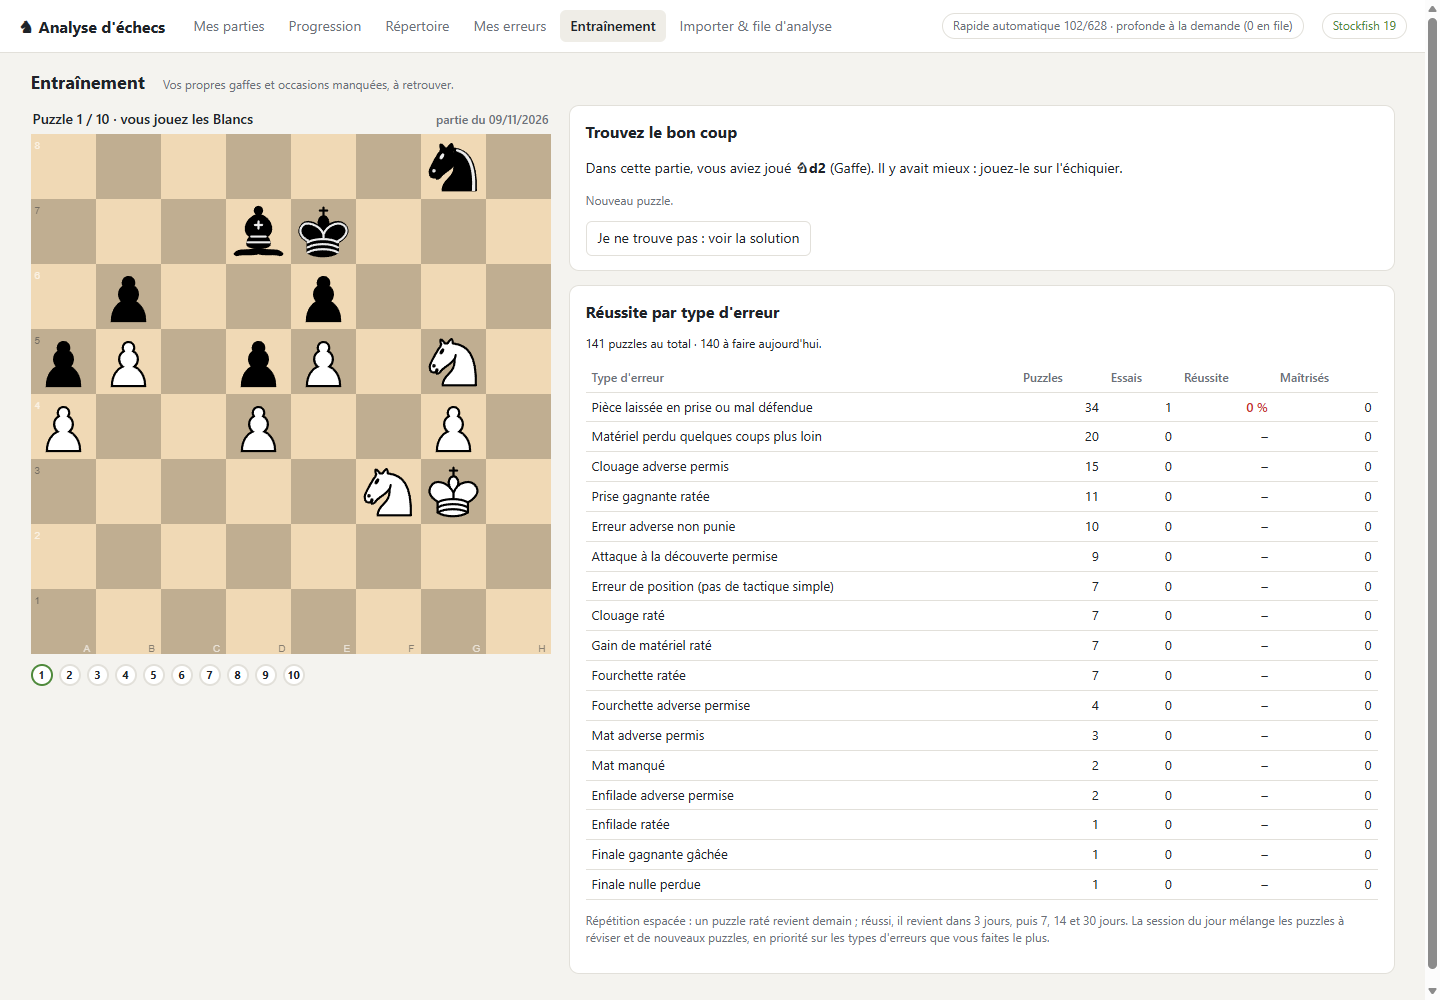
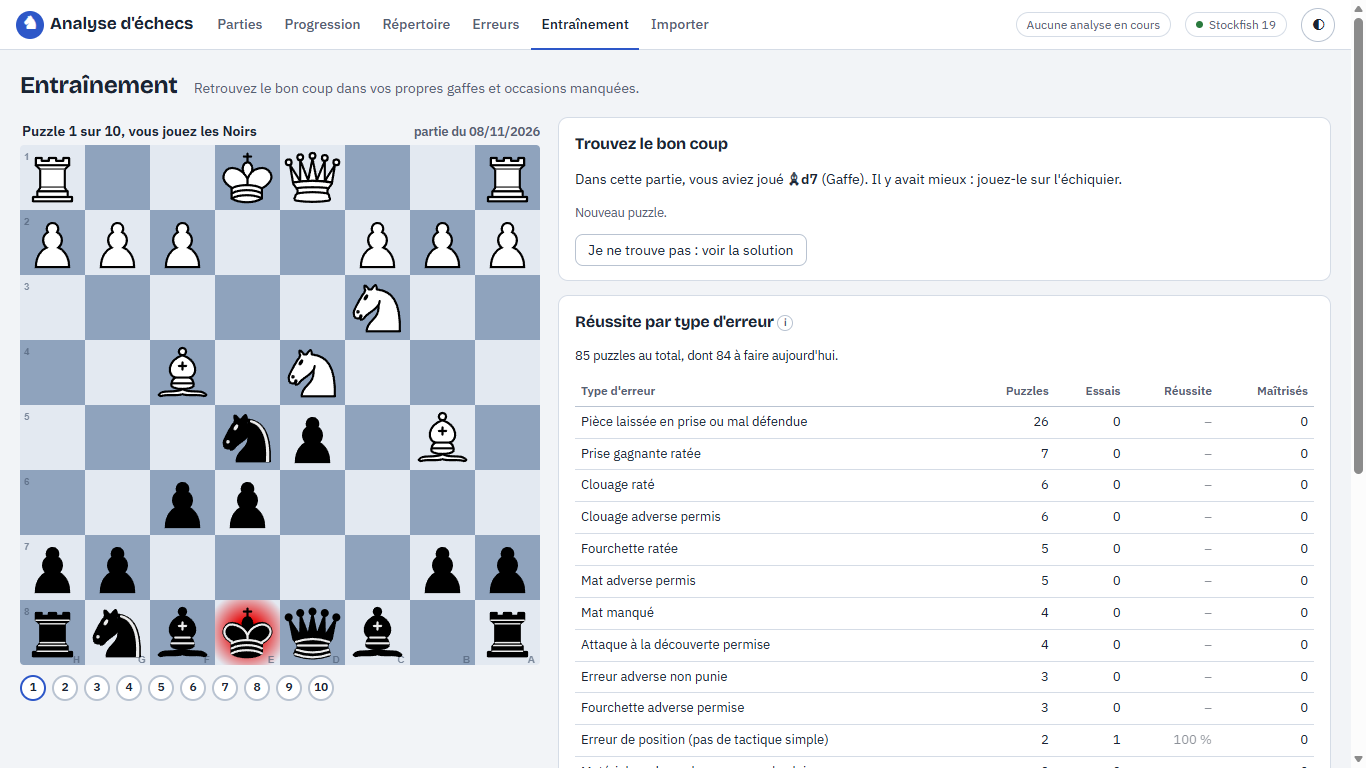
Qualité de la refonte : tablette, alignements, captures du README
Mise en page sur une colonne sous 900 px, pastilles de la barre du haut qui ne se tassent plus,
liste des erreurs repliée au-delà de 8 types. README : écran d'analyse, bilan guidé, thème,
nouvelles captures.

diff --git a/public/app/app.css b/public/app/app.css
@@ -106,7 +106,7 @@ main:focus { outline: none; }
 .topbar nav a:hover { color: var(--ink); }
 .topbar nav a.active { color: var(--ink); border-bottom-color: var(--pen); }
 .spacer { flex: 1; }
-.pill { font-size: 12px; padding: 3px 10px; border-radius: 999px; border: 1px solid var(--rule); color: var(--graphite); white-space: nowrap; text-decoration: none; max-width: 300px; overflow: hidden; text-overflow: ellipsis; }
+.pill { flex-shrink: 0; font-size: 12px; padding: 3px 10px; border-radius: 999px; border: 1px solid var(--rule); color: var(--graphite); white-space: nowrap; text-decoration: none; max-width: 300px; overflow: hidden; text-overflow: ellipsis; }
 a.pill:hover { background: var(--hover); }
 .pill.ok::before, .pill.err::before, .pill.busy::before { content: ''; display: inline-block; width: 7px; height: 7px; border-radius: 50%; margin-right: 6px; vertical-align: 1px; background: var(--best); }
 .pill.err::before { background: var(--blunder); }
@@ -322,9 +322,9 @@ details.more > summary::-webkit-details-marker { display: none; }
   .detail { overflow: visible; }
   .graph-wrap { height: 90px; flex: none; }
 }
-@media (max-width: 760px) {
-  .game-layout { grid-template-columns: 1fr; }
-  .sheet-col { max-height: 320px; }
+@media (max-width: 900px) {
+  .game-layout { --bsize: min(calc(100vw - 32px - 40px), 640px); grid-template-columns: minmax(0, 1fr); }
+  .sheet-col { max-height: 340px; }
 }
 
 /* ---------- Échiquier « ardoise » ---------- */
@@ -431,10 +431,10 @@ table.simple tr.click:hover { background: var(--hover); }
 }
 
 /* ---------- Topbar étroite (tablette) ---------- */
+@media (max-width: 1150px) { #queuePill { display: none; } }
 @media (max-width: 1000px) {
   .topbar { gap: 8px; padding: 0 10px; }
   .brand .brand-name { display: none; }
-  #queuePill { display: none; }
   .topbar nav a { padding: 0 7px; }
 }
 @media (max-width: 700px) {

diff --git a/README.md b/README.md
@@ -142,19 +142,38 @@ Les filtres sont mémorisés.
 
 ### Écran d'analyse
 
-- **Échiquier** orienté de votre côté (bouton ⇅ ou touche `F` pour le retourner) et **barre d'évaluation** verticale.
-- **Graphe** des chances de gain des Blancs sous l'échiquier : cliquez dessus pour aller au coup. Les gaffes (rouge),
-  erreurs (orange) et occasions manquées sont marquées par des points.
-- **Liste des coups** avec symboles colorés : `!!` brillant, `!` très bon, `★` meilleur, `✓` excellent / bon,
-  livre = théorie, `?!` imprécision, `?` erreur, `✗` occasion manquée, `??` gaffe, et le **temps utilisé** pour chaque
-  coup (calculé à partir des pendules `%clk`).
-- **Résumé par joueur** : précision, Elo estimé et compteurs cliquables (« Gaffe 2 » saute à la première gaffe, un
-  nouveau clic à la suivante, puis on recommence).
+Sur un écran de portable (1366 × 768), tout tient sans faire défiler la page : échiquier, barre d'évaluation,
+feuille de notation, explication du coup et graphe. Seule la feuille de notation défile.
+
+- **Le coup sélectionné** : son classement en grand, comme un **tampon de correction** dans la marge (un « Brillant »
+  se voit tout de suite), puis l'explication en une phrase, le meilleur coup et la **suite de Stockfish** à rejouer
+  sur l'échiquier (« Rejouer la suite », ou un clic sur un coup de la suite). Les détails techniques (perte de
+  chances de gain, précision du coup, évaluation, profondeur de calcul, lignes de Stockfish) sont repliés dans
+  **Détails**. Sur un coup raté, une **flèche verte** montre le meilleur coup sur l'échiquier.
+- **Bilan guidé** : le bouton fait défiler uniquement les **moments clés** de la partie (gaffes, occasions
+  manquées, erreurs et coups brillants), un par un, avec leur explication, comme une revue avec un entraîneur.
+  `←` / `→` passent d'un moment à l'autre, `Échap` arrête le bilan. Les moments clés sont aussi listés en bas du
+  panneau : un clic pour y aller.
+- **Échiquier** orienté de votre côté (bouton ⇅ ou touche `F` pour le retourner) et **barre d'évaluation** large,
+  avec la valeur écrite du côté de celui qui mène.
+- **Feuille de notation** : chaque coup avec son symbole (`!!` brillant, `!` très bon, `★` meilleur, `✓` excellent /
+  bon, livre = théorie, `?!` imprécision, `?` erreur, `✗` occasion manquée, `??` gaffe) et, en discret, le **temps
+  passé** sur le coup (calculé à partir des pendules `%clk`).
+- **Graphe d'évaluation** : au-dessus de la ligne du milieu, les Blancs mènent ; en dessous, les Noirs. Les moments
+  clés sont marqués d'un point de couleur, le trait bleu suit le coup affiché, le survol donne le coup et
+  l'évaluation, un clic va au coup.
+- **Résumé de la partie** : précision et nombre de **fautes graves** (erreurs, occasions manquées et gaffes) de
+  chaque joueur. « Détail » déplie les catégories : un clic sur l'une d'elles saute au coup suivant de ce type ;
+  les catégories à zéro tiennent sur une ligne.
 - **Ouverture** (base libre lichess-org/chess-openings) et lien vers le **coup où l'on sort de la théorie**.
 - **Clavier** : `←` / `→` coup précédent / suivant, `Début` / `Fin` (ou `↑` / `↓`) début / fin de partie.
-- Pour chaque coup raté (imprécision, erreur, gaffe, occasion manquée) : la **flèche verte** du meilleur coup sur
-  l'échiquier, le **meilleur coup**, une **explication en français** et la **suite de Stockfish**, jouable sur
-  l'échiquier (cliquez un coup de la suite, ou « Voir la suite sur l'échiquier » pour la dérouler).
+
+### Thème clair ou sombre
+
+Le bouton ◐ en haut à droite passe de **automatique** (comme le système) à **clair**, puis **sombre**. Le choix est
+mémorisé dans le navigateur. L'interface respecte aussi le réglage « réduire les animations » du système : seules
+les animations qui montrent un changement (coup joué, panneau ouvert, tampon) existent, et elles disparaissent
+alors.
 
 ### Explications en français (par des règles)
 
